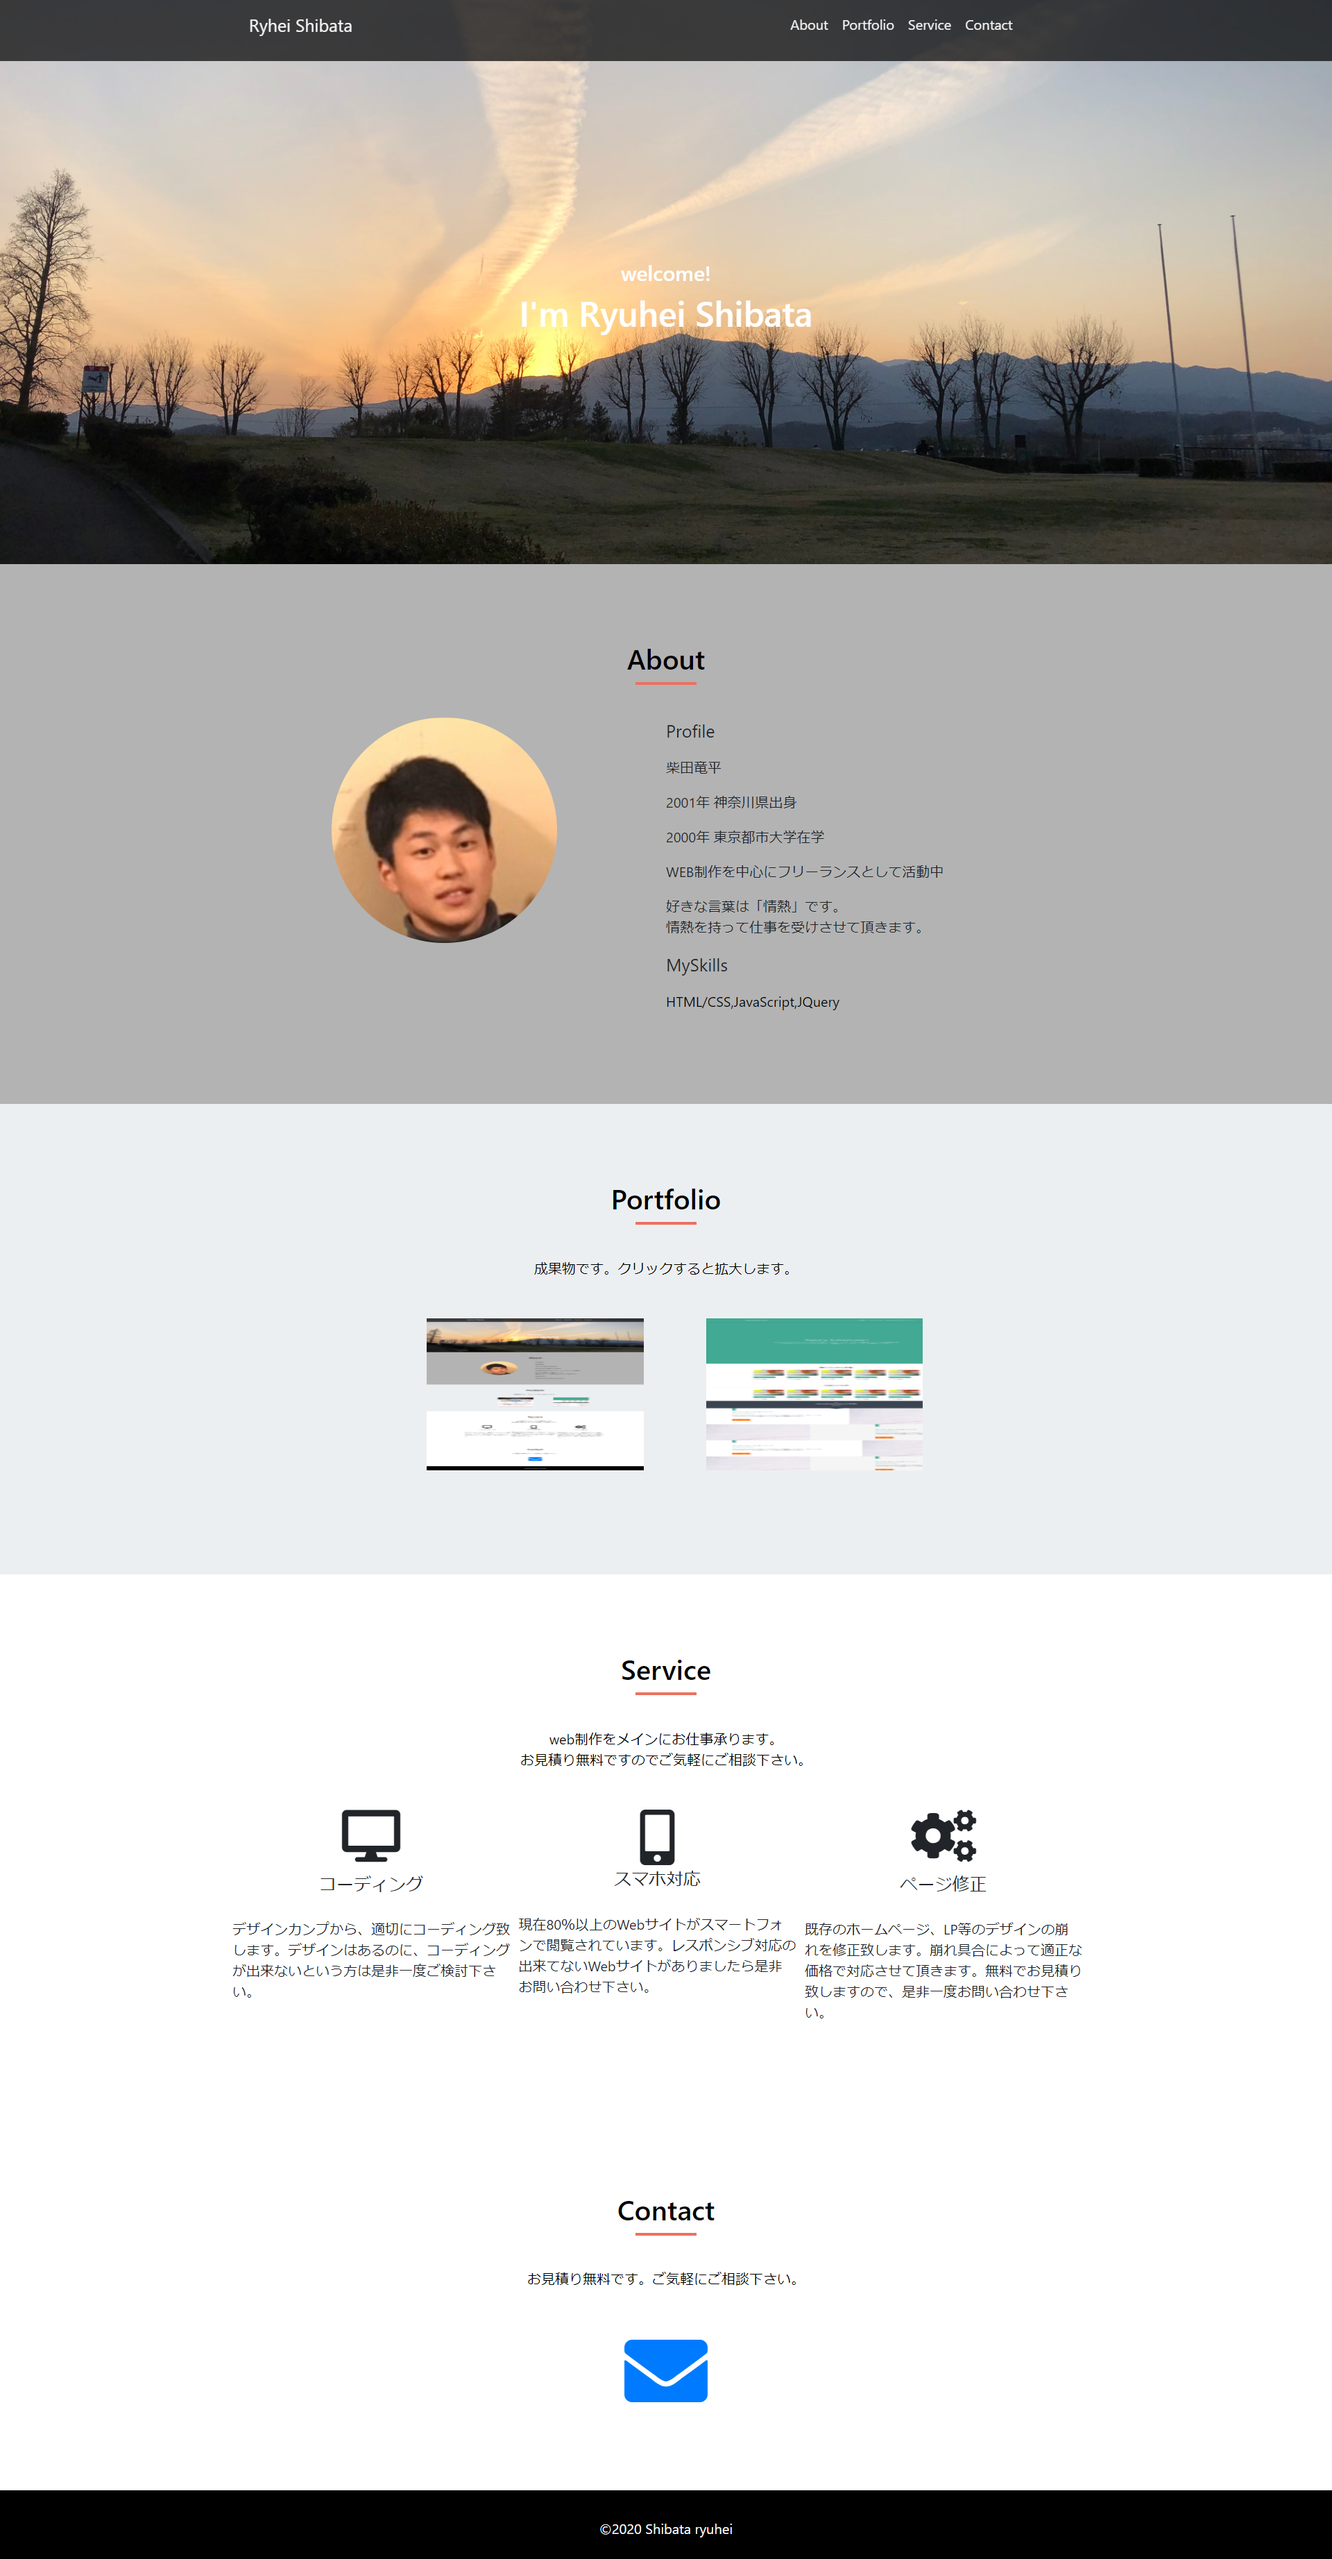
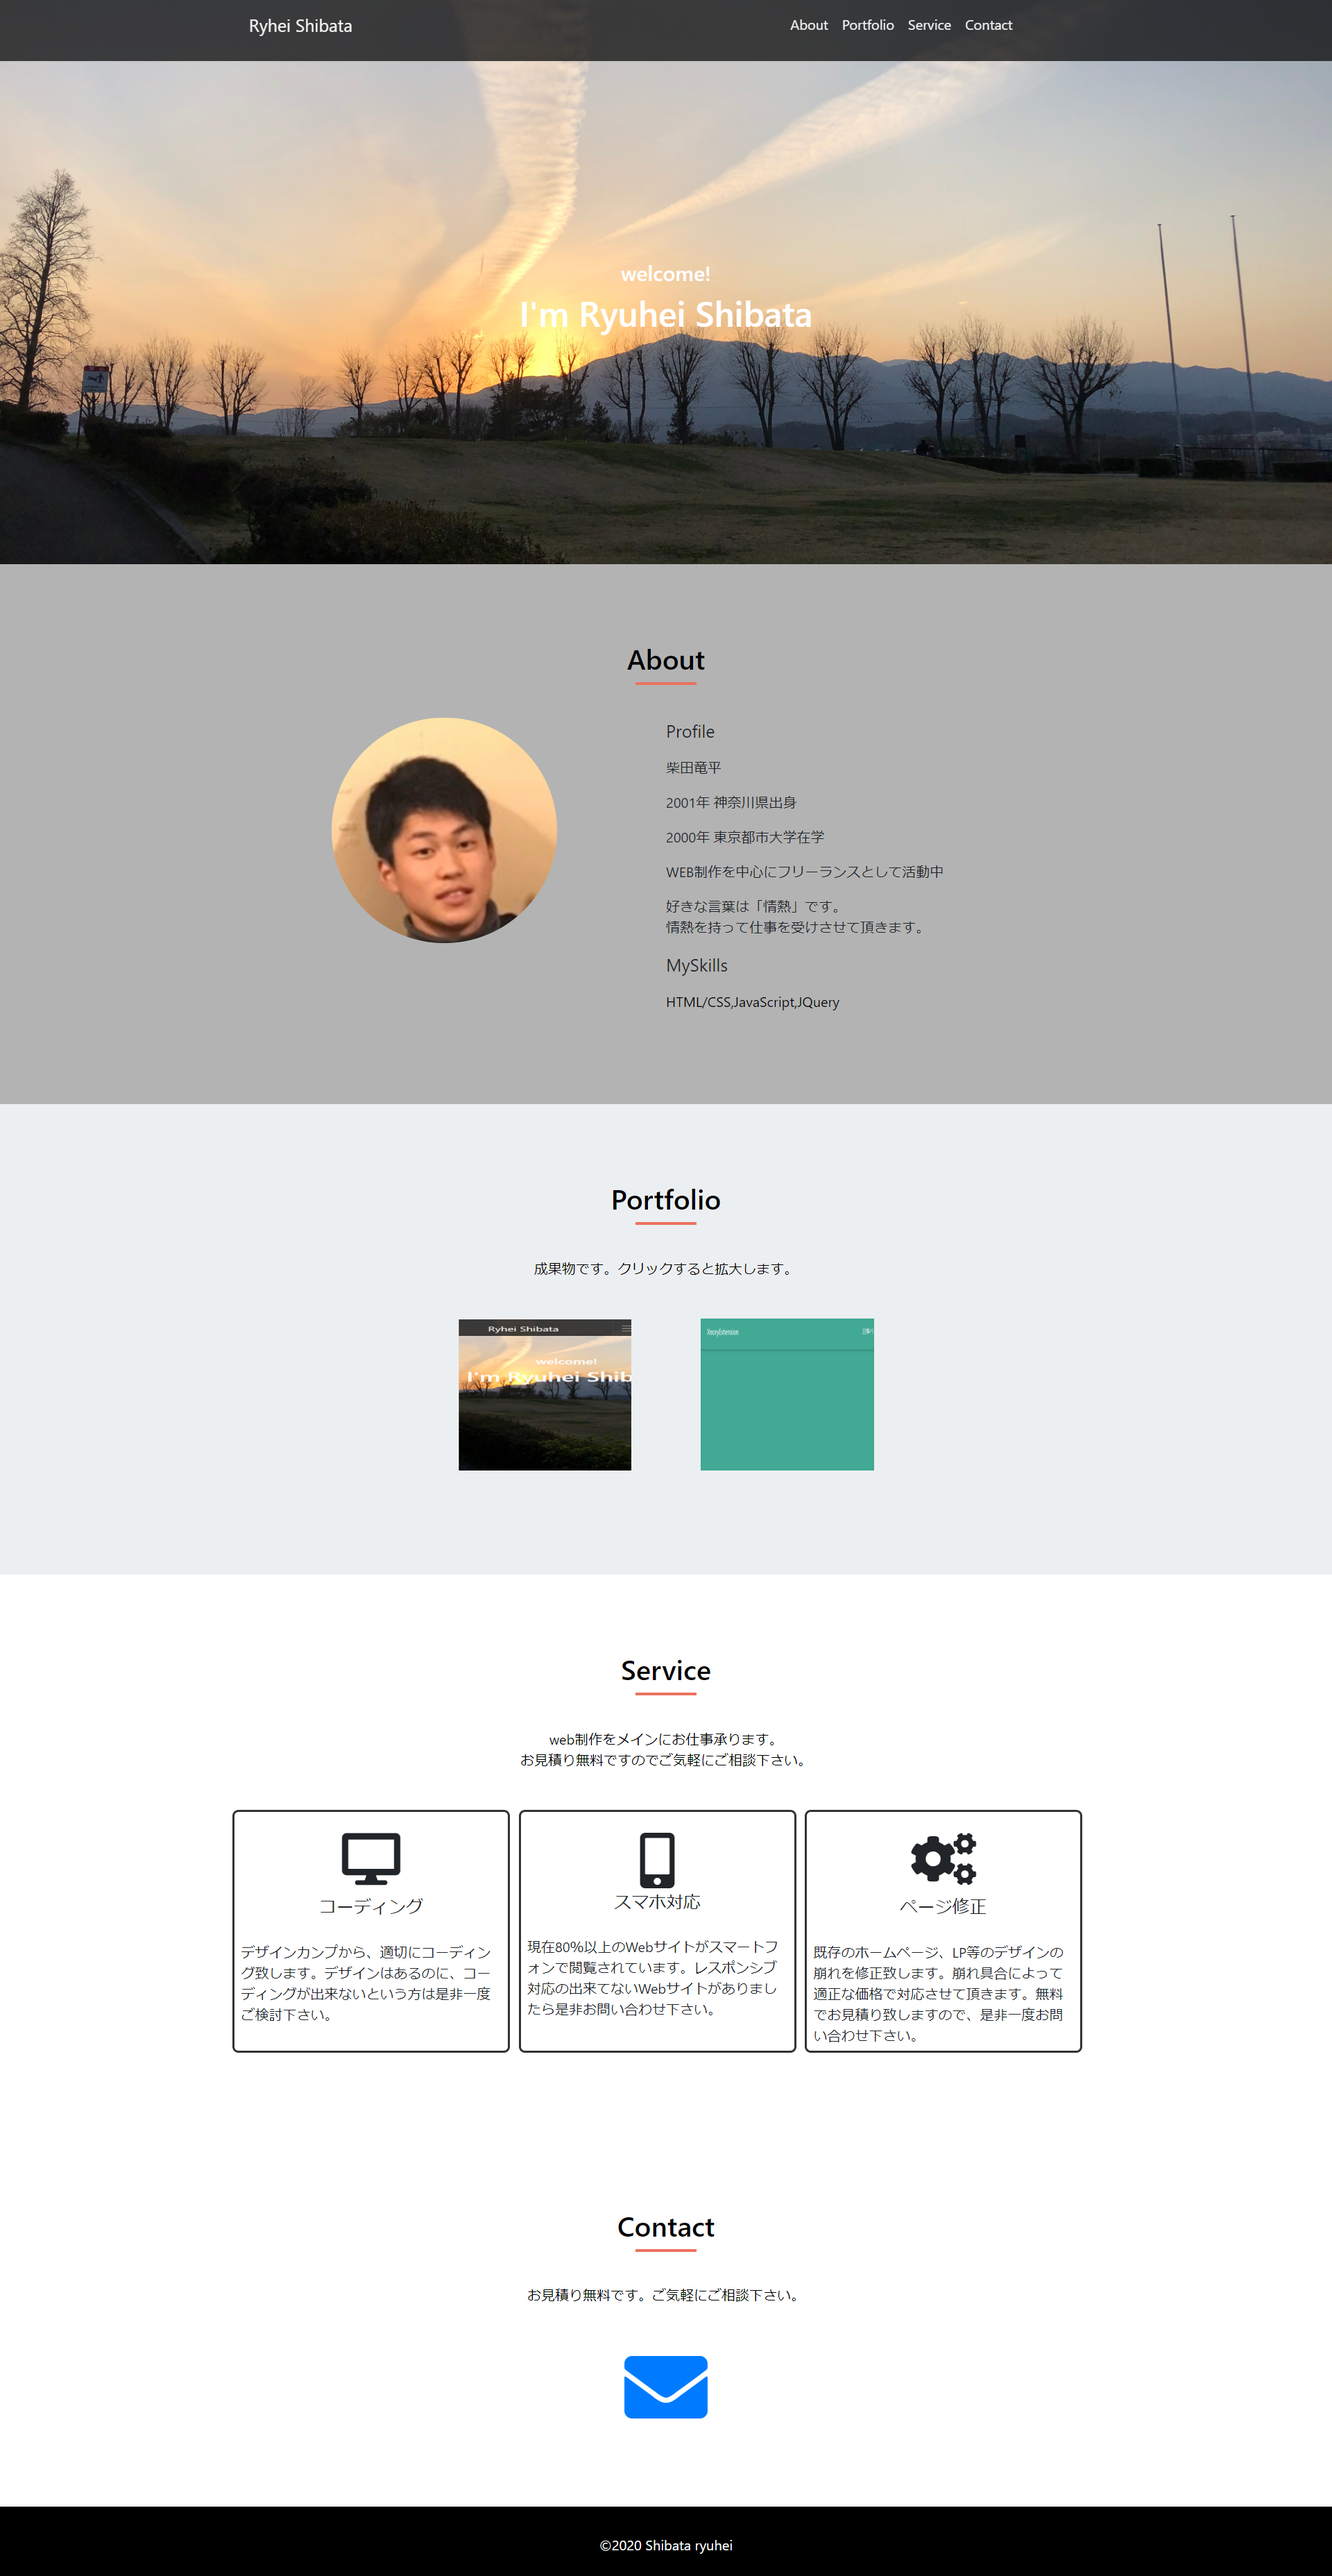
edit3

diff --git a/index.html b/index.html
@@ -68,9 +68,9 @@
               <div class="photo-box clearfix">
                 <div class="port-1">
                 <figure class="hover-parent">
-                  <img src="img/screen3.png" width="250" height="175">
+                  <div class="port9"></div>
                   <figcaption class="hover-mask">
-                    <a href="img/screen.png" data-lightbox="group"><h4 class="text-white text-center" width="250px" height="175px">ポートフォリオサイト作成</h4></a>             
+                    <a href="img/screen.png" data-lightbox="group"><h5 class="text-white text-center" width="250px" height="175px">ポートフォリオ作成</h5><p class="text-white" style="font-size:10px;">制作日（2020年4月）</p></a>             
                   </figcaption>
                 </figure>
                 </div>
@@ -78,7 +78,7 @@
                 <figure class="hover-parent">
                   <img src="img/screen4.png" width="300" height="300">
                   <figcaption class="hover-mask">
-                    <a href="img/screen2.png" data-lightbox="group"><h4 class="text-white text-center">サイト模写作成</h4></a>
+                    <a href="img/screen2.png" data-lightbox="group"><h5 class="text-white text-center">サイト模写作成</h5><p class="text-white" style="font-size:10px;">制作日（2020年3月）</p></a>
                   </figcaption>
                 </figure>
                 </div>

diff --git a/style.css b/style.css
@@ -29,7 +29,17 @@ header{
   background-color:rgba(3,3,3,0.9);
 }
 /* 付け加え */
-
+.port9{
+  width: 200px;
+  height: 175px;
+  background-image: url(img/screen3.png);
+  background-position: center;
+}
+.port8{
+  width: 250px;
+  height: 175px;
+  background-image: url(img/screen3.png);
+  background-position: center;}
 .fadein {
 	opacity : 0.1;
 	transform : translate(0, 50px);
